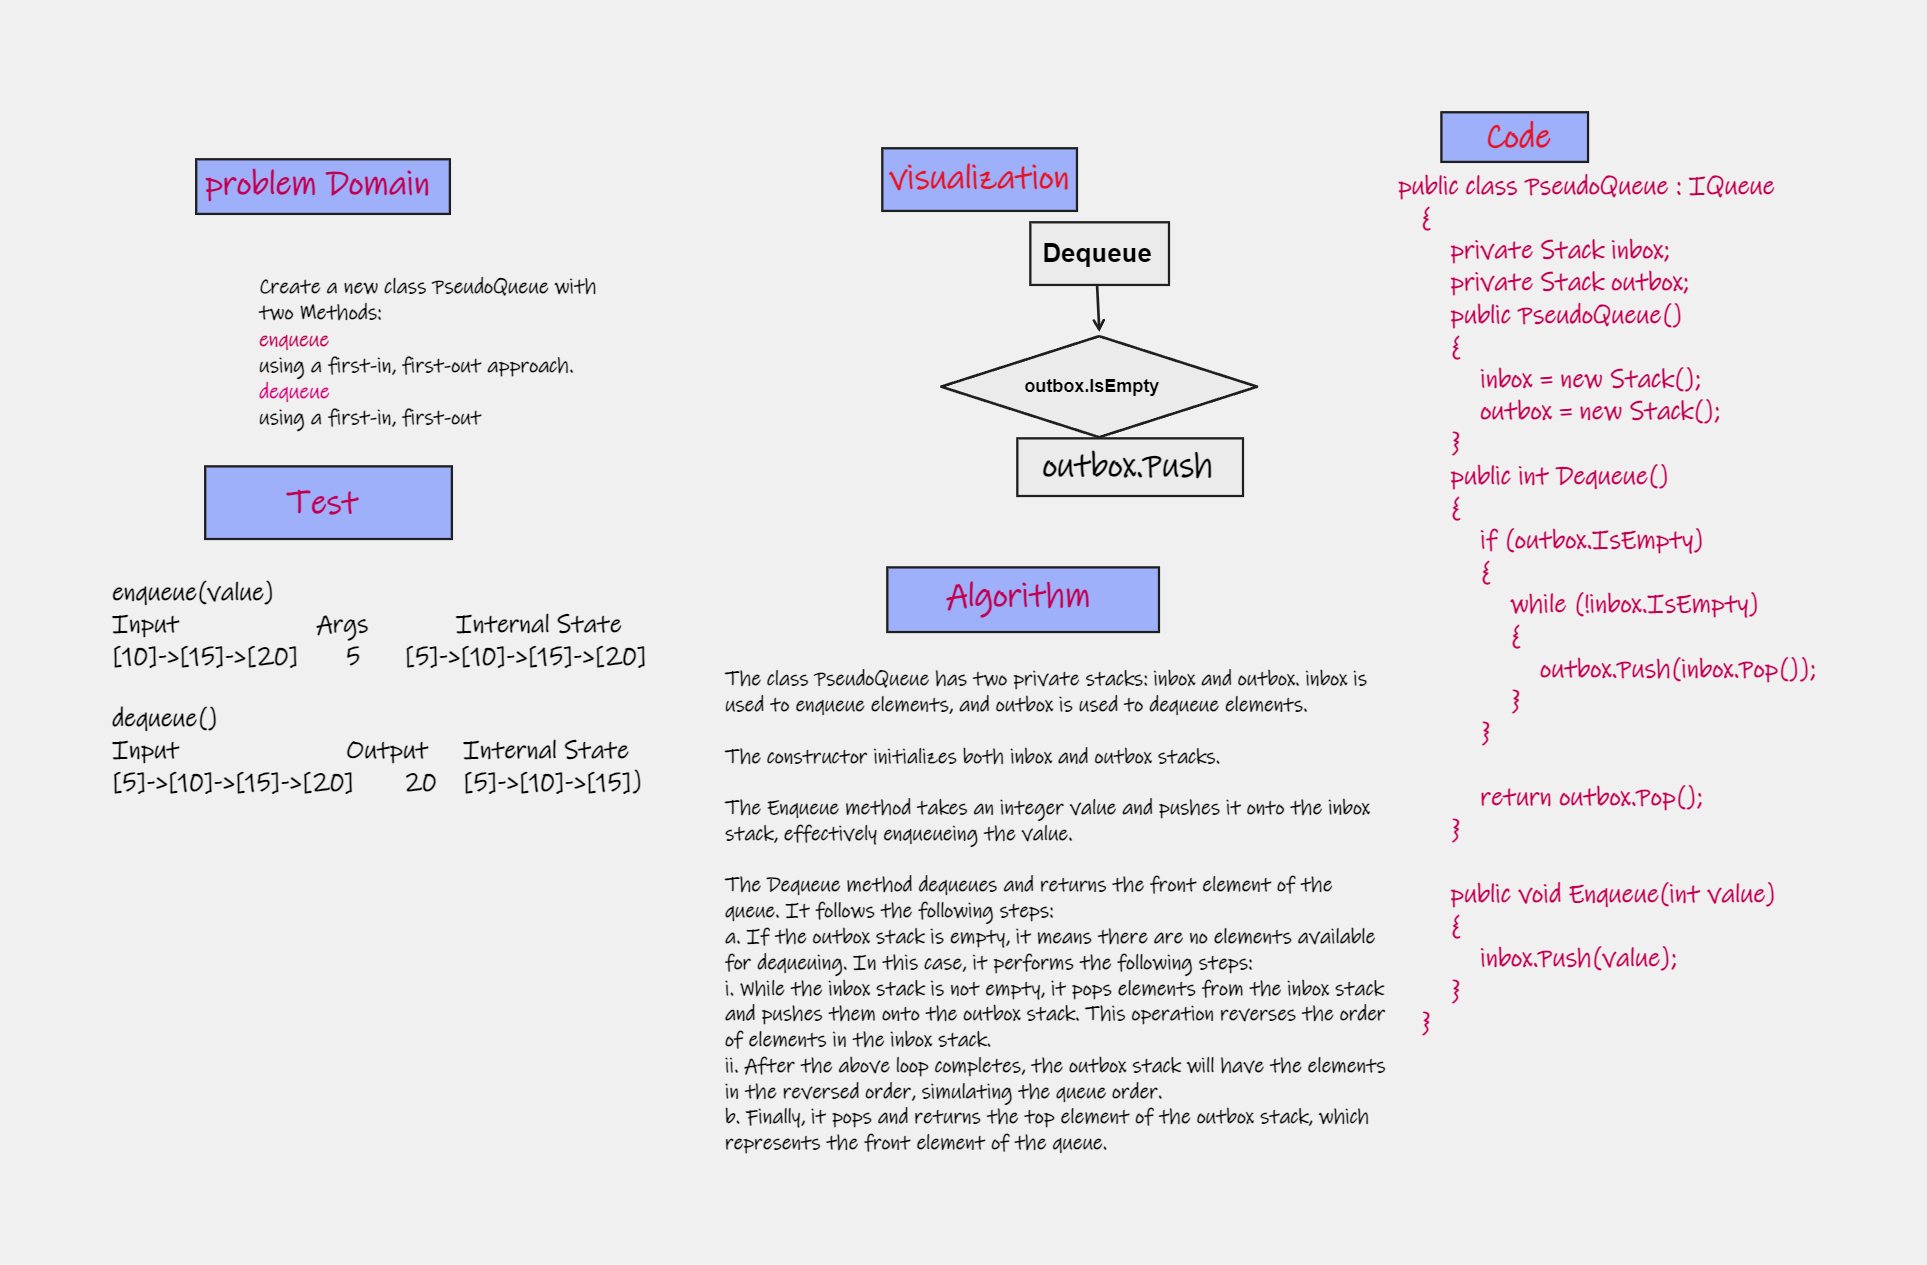
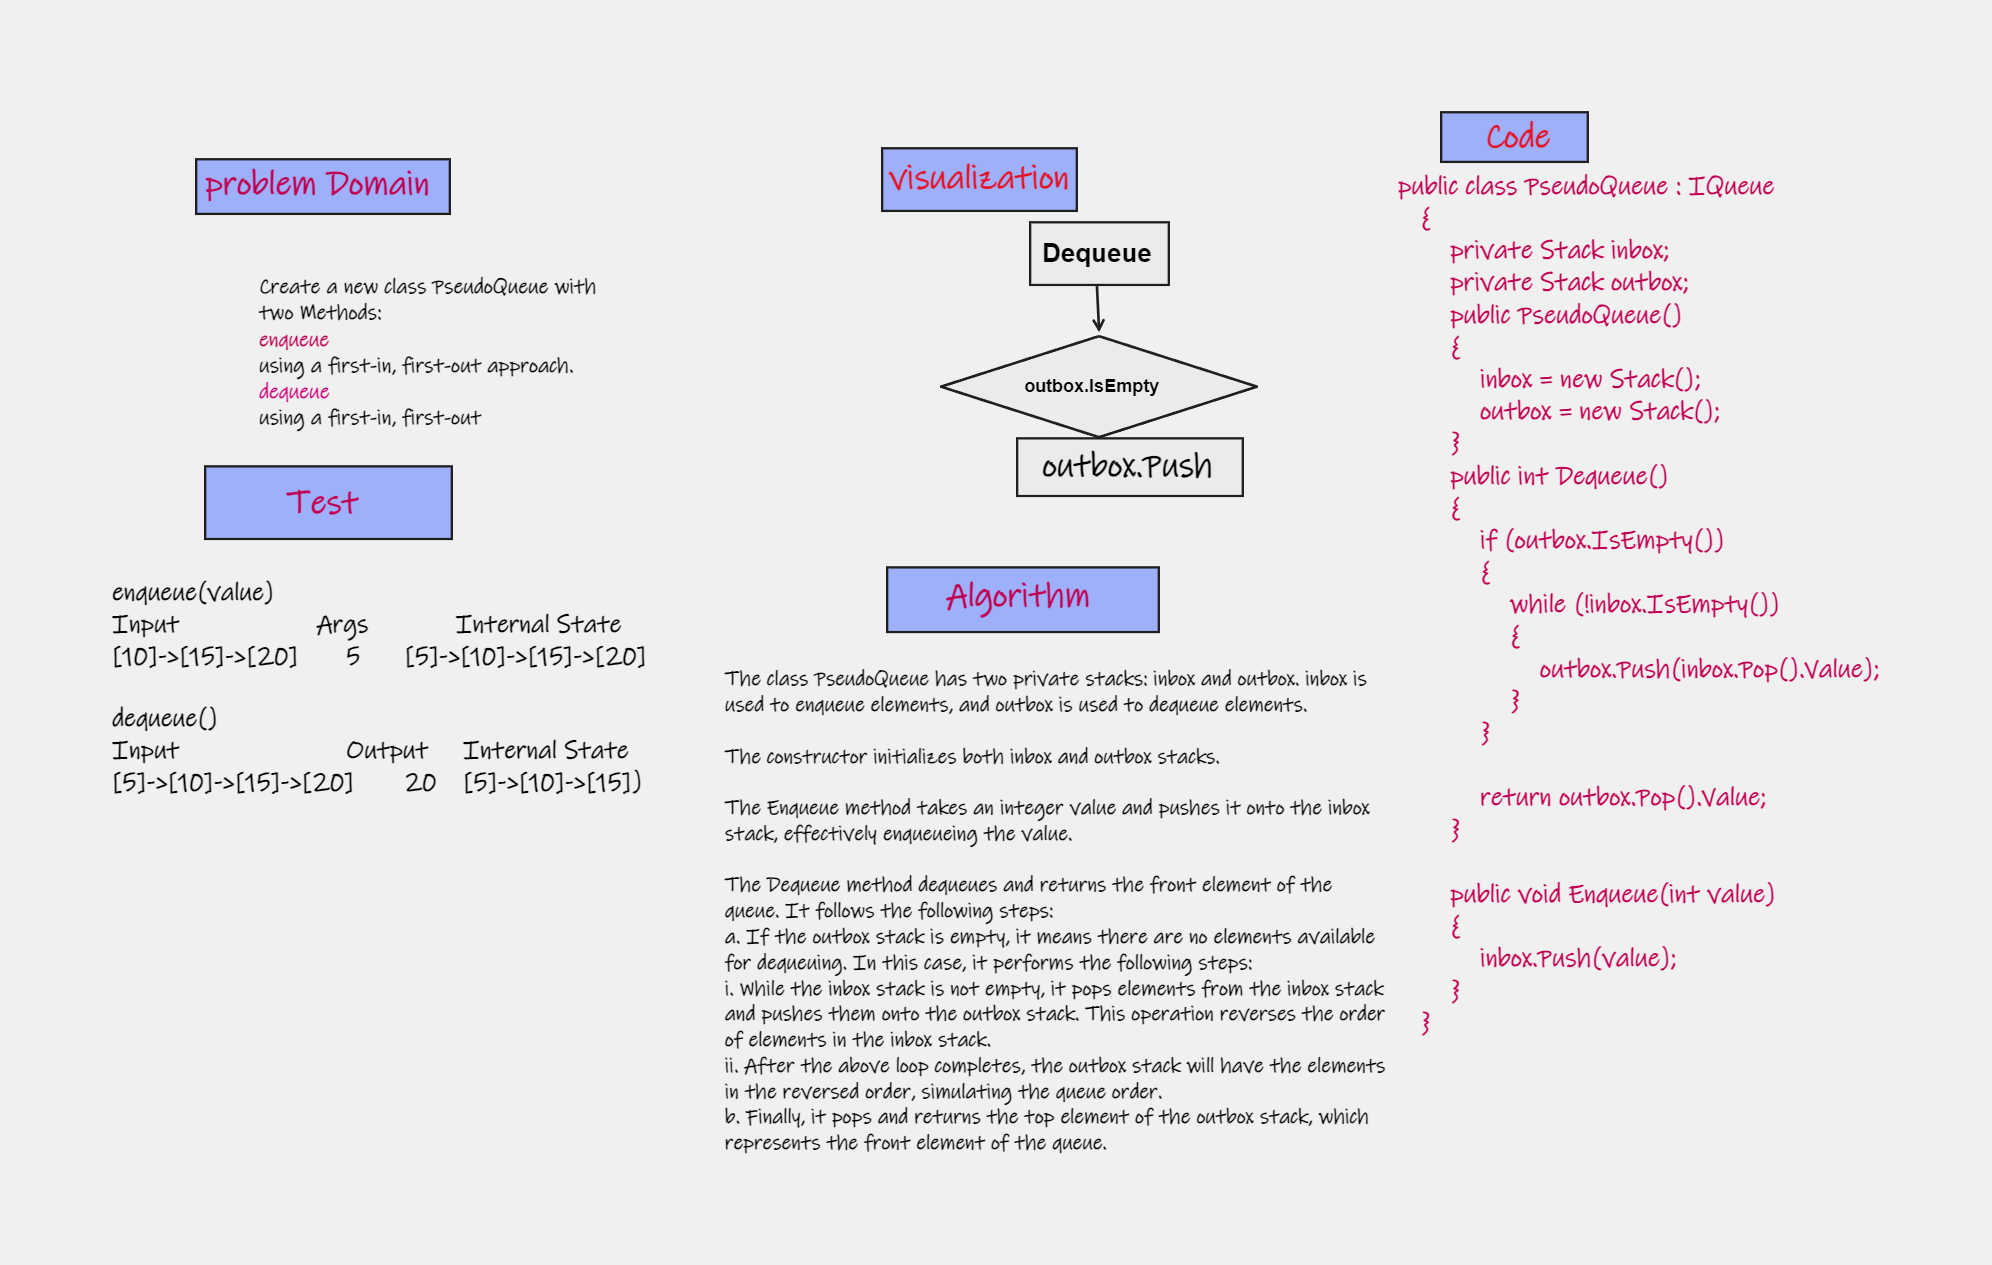
done

diff --git a/stack-queue-pseudo/ConsoleApp1/ConsoleApp1/Stack.cs b/stack-queue-pseudo/ConsoleApp1/ConsoleApp1/Stack.cs
@@ -3,49 +3,62 @@ using System.Collections.Generic;
 using System.Linq;
 using System.Text;
 using System.Threading.Tasks;
+using System.Xml.Linq;
 
 namespace ConsoleApp1
 {
     public class Stack
     {
-        private List<int> stack;
+        public Node Top { get; set; }
 
-        public Stack()
+        public void Push(int data)
         {
-            stack = new List<int>();
+            Node addNode = new Node(data);
+            addNode.Next = Top;
+            Top = addNode;
         }
-
-        public void Push(int item)
+        public void Display()
         {
-            stack.Add(item);
+            Node current = Top;
+            while (current != null)
+            {
+                Console.WriteLine(current.Value);
+                current = current.Next;
+            }
         }
-
-        public int Pop()
+        public Node Pop()
         {
-            if (stack.Count == 0)
+            if (Top == null)
             {
                 throw new InvalidOperationException("Stack is empty.");
             }
+            Node current = Top;
 
-            int lastIndex = stack.Count - 1;
-            int item = stack[lastIndex];
-            stack.RemoveAt(lastIndex);
-            return item;
+            Top = Top.Next;
+            return current;
+
         }
-
-        public int Peek()
+        public Node Peek()
         {
-            if (stack.Count == 0)
+            if (Top == null)
             {
                 throw new InvalidOperationException("Stack is empty.");
             }
+            return Top;
 
-            return stack[stack.Count - 1];
         }
-
-        public int Count => stack.Count;
-
-        public bool IsEmpty => stack.Count == 0;
+        public bool IsEmpty()
+        {
+            if (Top == null)
+            {
+                Console.WriteLine("True");
+                return true;
+            }
+            else
+            {
+                return false;
+            }
+        }
     }
 
 }

diff --git a/stack-queue-pseudo/ConsoleApp1/ConsoleApp1/PseudoQueue.cs b/stack-queue-pseudo/ConsoleApp1/ConsoleApp1/PseudoQueue.cs
@@ -17,15 +17,15 @@ namespace ConsoleApp1
         }
         public int Dequeue()
         {
-            if (outbox.IsEmpty)
+            if (outbox.IsEmpty())
             {
-                while (!inbox.IsEmpty)
+                while (!inbox.IsEmpty())
                 {
-                    outbox.Push(inbox.Pop());
+                    outbox.Push(inbox.Pop().Value);
                 }
             }
 
-            return outbox.Pop();
+            return outbox.Pop().Value;
         }
 
         public void Enqueue(int value)

diff --git a/stack-queue-pseudo/ConsoleApp1/ConsoleApp1/Node.cs b/stack-queue-pseudo/ConsoleApp1/ConsoleApp1/Node.cs
@@ -1,0 +1,19 @@
+using System;
+using System.Collections.Generic;
+using System.Linq;
+using System.Text;
+using System.Threading.Tasks;
+
+namespace ConsoleApp1
+{
+    public class Node
+    {
+        public int Value { get; set; }
+        public Node Next { get; set; }
+
+        public Node(int value)
+        {
+            Value = value;
+        }
+    }
+}
